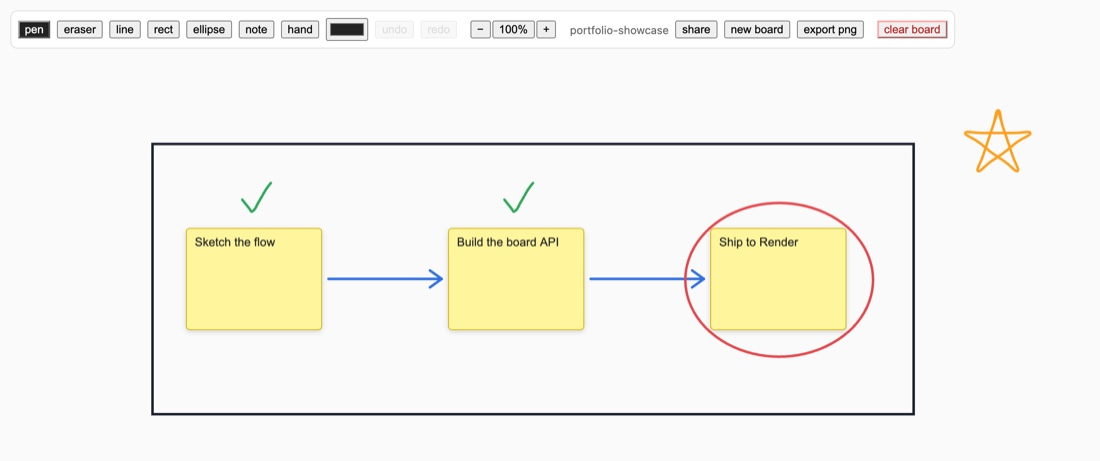
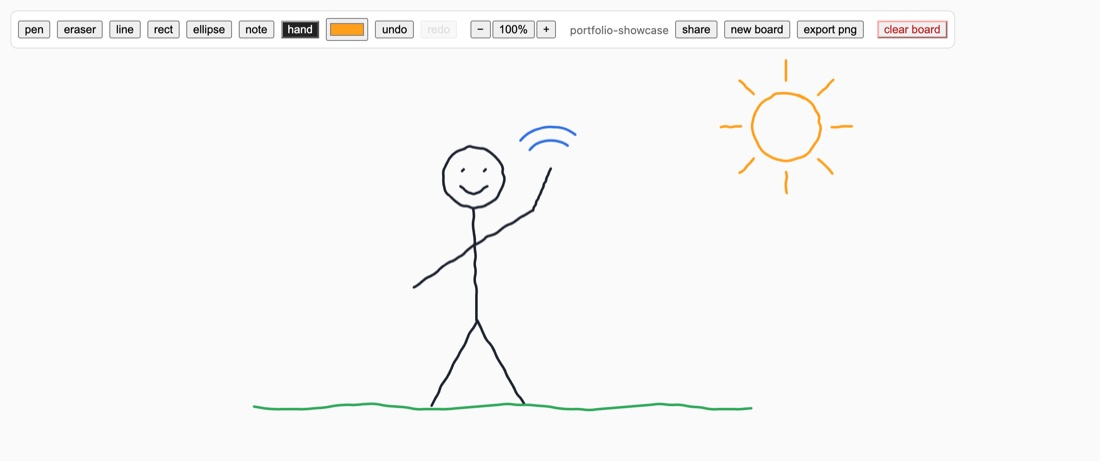
Use a stick figure sketch for the whiteboard, and drop the restaurant matcher photo

diff --git a/index.html b/index.html
@@ -206,9 +206,6 @@
           <a class="link" href="https://github.com/colby-okazaki/crave" target="_blank" rel="noopener">Code →</a>
           <span class="note">Free hosting, so the first visit can take a minute</span>
         </div>
-        <a class="row-shot" href="https://crave-app-ykml.onrender.com" target="_blank" rel="noopener" aria-label="Open the live demo">
-          <img src="images/crave.jpg" width="1100" height="700" loading="lazy" alt="The Crave home screen: the heart-and-fork logo, the line &quot;Can't decide where to eat?&quot;, and buttons to create a group or join with a code">
-        </a>
       </li>
       <li class="card row">
         <div class="row-top"><span class="num">02</span><span class="when">Oct – Nov 2026</span></div>
@@ -222,7 +219,7 @@
           <span class="note">Free hosting, so the first visit can take a minute</span>
         </div>
         <a class="row-shot" href="https://collab-whiteboard-vhsh.onrender.com" target="_blank" rel="noopener" aria-label="Open the live demo">
-          <img src="images/whiteboard.jpg" width="1100" height="461" loading="lazy" alt="A board on the live whiteboard: three sticky notes joined by blue arrows, green ticks over the first two, the last circled in red, all inside a drawn box">
+          <img src="images/whiteboard.jpg?v=2" width="1100" height="461" loading="lazy" alt="A hand-drawn sketch on the live whiteboard: a smiling stick figure waving, standing on green grass under an orange sun">
         </a>
       </li>
       <li class="card row">

diff --git a/projects/group-restaurant-matcher.html b/projects/group-restaurant-matcher.html
@@ -9,7 +9,7 @@
 <meta property="og:url" content="https://colby-okazaki.github.io/portfolio/projects/group-restaurant-matcher.html">
 <meta property="og:title" content="Group Restaurant Matcher · Colby Okazaki">
 <meta property="og:description" content="For a group of friends who can&#x27;t agree on where to eat. Everyone swipes yes or no on nearby restaurants, and the app shows a match when the whole group likes the same place. I built the back end.">
-<meta property="og:image" content="https://colby-okazaki.github.io/portfolio/images/crave.jpg">
+<meta property="og:image" content="https://colby-okazaki.github.io/portfolio/images/preview.jpg">
 <meta name="twitter:card" content="summary_large_image">
 <link rel="preconnect" href="https://fonts.googleapis.com">
 <link href="https://fonts.googleapis.com/css2?family=Inter:wght@400;600;800&family=JetBrains+Mono:wght@400;700&family=Jersey+25&display=swap" rel="stylesheet">
@@ -36,11 +36,6 @@
       <div><dt>~4,900 / s</dt><dd>requests handled</dd></div>
       <div><dt>14.7ms</dt><dd>p95 from the final swipe to the match reaching the host</dd></div>
     </dl>
-
-    <figure class="shot">
-      <img src="../images/crave.jpg" width="1100" height="700" alt="The Crave home screen: the heart-and-fork logo, the line &quot;Can't decide where to eat?&quot;, and buttons to create a group or join with a code">
-      <figcaption>The home screen: start a group, or join one with a code.</figcaption>
-    </figure>
 
     <section class="card">
       <h2>How it works</h2>

diff --git a/projects/collaborative-whiteboard.html b/projects/collaborative-whiteboard.html
@@ -37,8 +37,8 @@
     </dl>
 
     <figure class="shot">
-      <img src="../images/whiteboard.jpg" width="1100" height="461" alt="A board on the live whiteboard: three sticky notes joined by blue arrows, green ticks over the first two, the last circled in red, all inside a drawn box">
-      <figcaption>A board on the live site: sticky notes, arrows and shapes, drawn by hand.</figcaption>
+      <img src="../images/whiteboard.jpg?v=2" width="1100" height="461" alt="A hand-drawn sketch on the live whiteboard: a smiling stick figure waving, standing on green grass under an orange sun">
+      <figcaption>A quick sketch on the live site, drawn with the pen tool.</figcaption>
     </figure>
 
     <section class="card">
